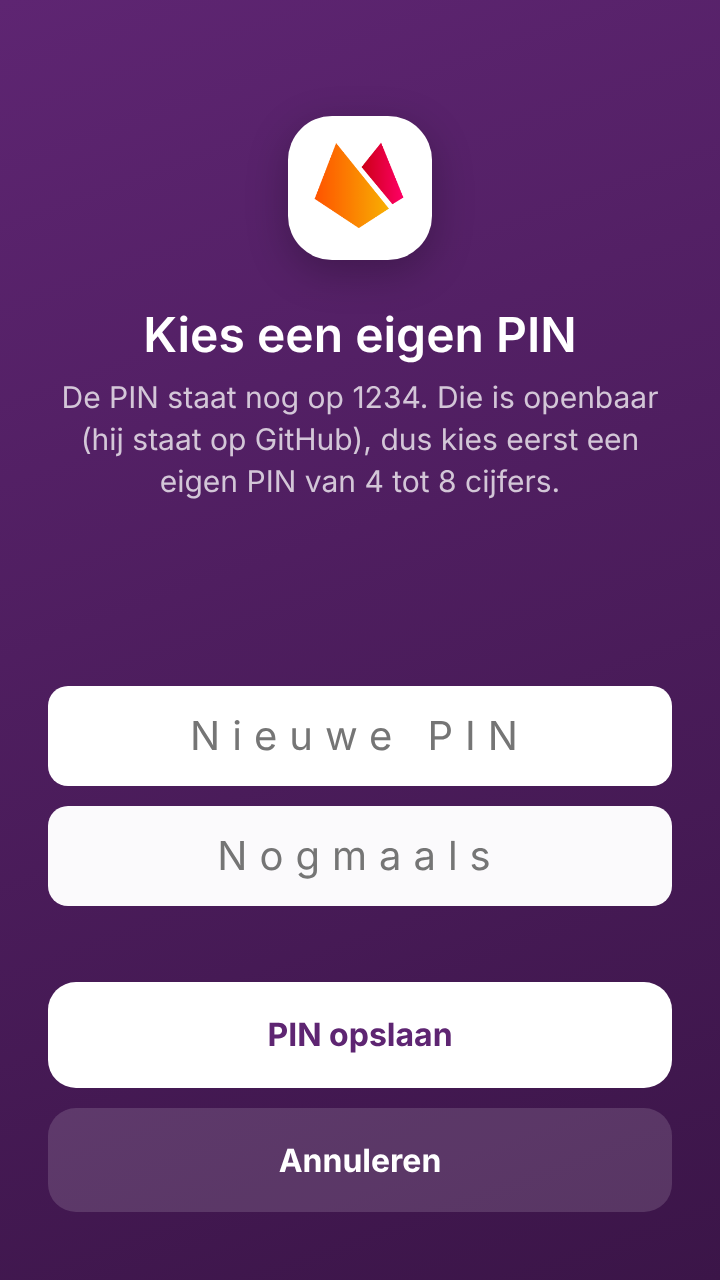
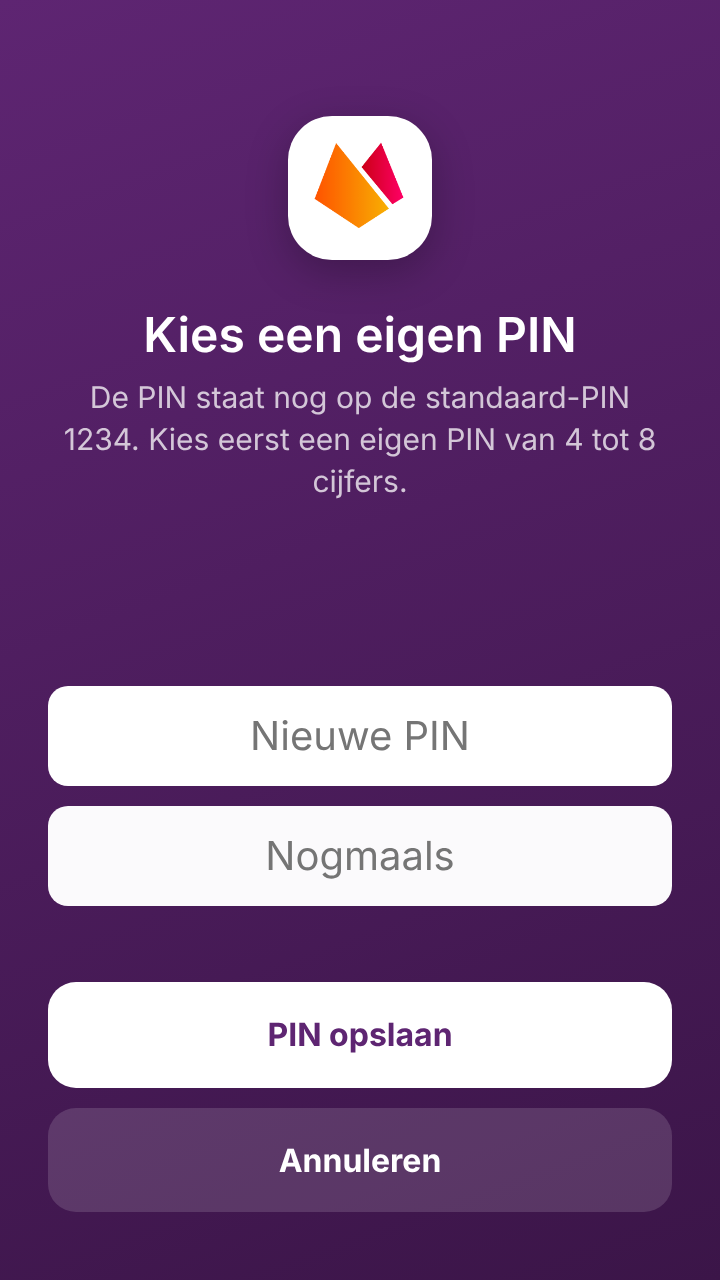
PIN-teksten: gewoon 'standaard-PIN', zonder verwijzing naar GitHub
Claude-Session: https://claude.ai/code/session_01XbTwMgGc6w6z84iXdLw6t1

diff --git a/app/assets/admin.html b/app/assets/admin.html
@@ -29,7 +29,7 @@
   <div class="pin-top">
     <img src="logo.png" alt="" class="pin-logo">
     <h1>Kies een eigen PIN</h1>
-    <p class="muted">De PIN staat nog op 1234. Die is openbaar (hij staat op GitHub), dus kies eerst een eigen PIN van 4 tot 8 cijfers.</p>
+    <p class="muted">De PIN staat nog op de standaard-PIN 1234. Kies eerst een eigen PIN van 4 tot 8 cijfers.</p>
   </div>
   <div class="mustpin-form">
     <input id="mp1" type="password" inputmode="numeric" pattern="[0-9]*" maxlength="8" placeholder="Nieuwe PIN">

diff --git a/app/assets/admin.js b/app/assets/admin.js
@@ -61,7 +61,7 @@
     function openAdmin() {
         $('#pin').hidden = true;
         state = call('state');
-        // De standaard-PIN staat openbaar op GitHub: eerst een eigen PIN kiezen
+        // Nog de standaard-PIN: eerst een eigen PIN kiezen
         if (state.pinDefault) { $('#mustpin').hidden = false; $('#mp1').focus(); return; }
         $('#mustpin').hidden = true;
         $('#admin').hidden = false;

diff --git a/app/src/nl/webkiosk/MainActivity.java b/app/src/nl/webkiosk/MainActivity.java
@@ -1901,7 +1901,7 @@ public class MainActivity extends Activity {
         }
         if ("pin".equals(key)) {
             if (!v.matches("[0-9]{4,8}")) return "De PIN moet 4 tot 8 cijfers zijn";
-            if (v.equals("1234")) return "Kies een andere PIN dan 1234: die staat openbaar op GitHub";
+            if (v.equals("1234")) return "1234 is de standaard-PIN: kies een andere";
             e.putString("pin", v).commit();
             return null;
         }
